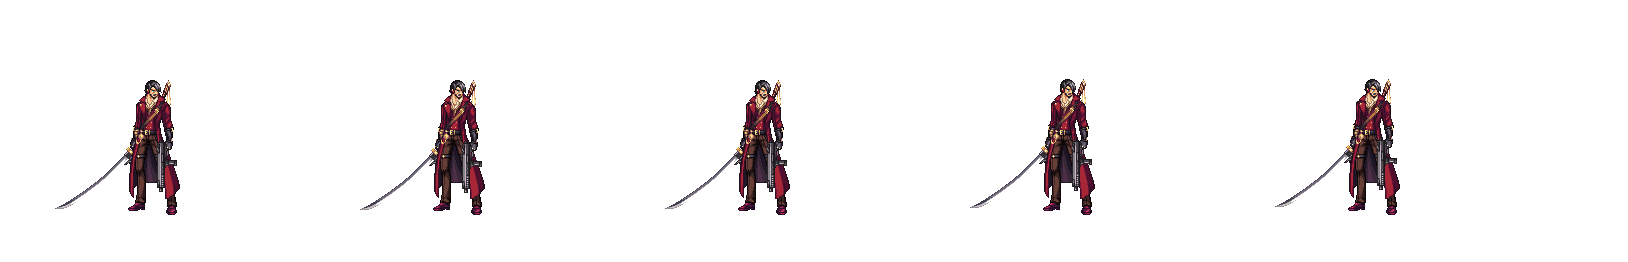
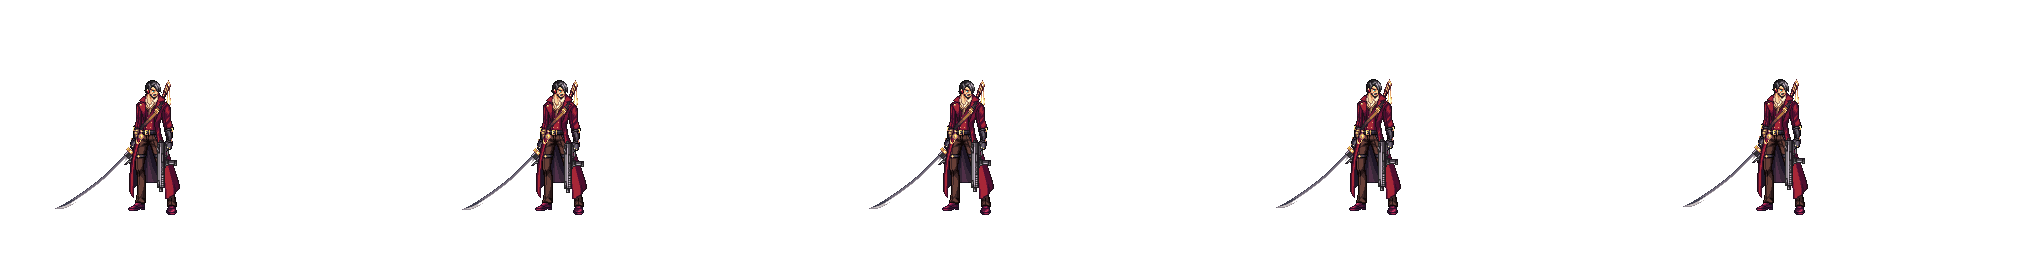
add skill 3

diff --git a/js/data/player_data.js b/js/data/player_data.js
@@ -475,7 +475,7 @@ const hitman = {
   sprites: {
     idle: {
       imageSrc: "./img/player_character/hitman/Idle.png",
-      framesMax: 6,
+      framesMax: 5,
       framesHold: 5,
       offset: {
         "1": { x: 55, y: 78 },
@@ -483,7 +483,7 @@ const hitman = {
     }},
     run: {
       imageSrc: "./img/player_character/hitman/Run.png",
-      framesMax: 6,
+      framesMax: 8,
       framesHold: 4,
       offset: {
         "1": { x: 55, y: 78 },
@@ -501,7 +501,7 @@ const hitman = {
     },
     fall: {
       imageSrc: "./img/player_character/hitman/Fall.png",
-      framesMax: 2,
+      framesMax: 3,
       framesHold: 6,
       offset: {
         "1": { x: 55, y: 78 },
@@ -528,7 +528,7 @@ const hitman = {
     },
     skill1: {
       imageSrc: "./img/player_character/hitman/Attack Skill 1.png",
-      framesMax: 24,
+      framesMax: 44,
       framesHold: 5,
       offset: {
         "1": { x: 55, y: 78 },
@@ -597,7 +597,7 @@ const hitman = {
     }, 
     skill3: {
       imageSrc: "./img/player_character/hitman/Attack Skill 3.png",
-      framesMax: 59,
+      framesMax: 55,
       framesHold: 6,
       offset: {
         "1": { x: 55, y: 78 },

diff --git a/js/controller/Init.js b/js/controller/Init.js
@@ -207,7 +207,7 @@ export function int() {
     position: { y: 373, x: 600 },
     velocity: { x: 0, y: 0 },
     moveSpeed: { x: 5, y: 15 },
-    player_name: "swordsman",
+    player_name: "hitman",
     flip: 1,
   });
 
